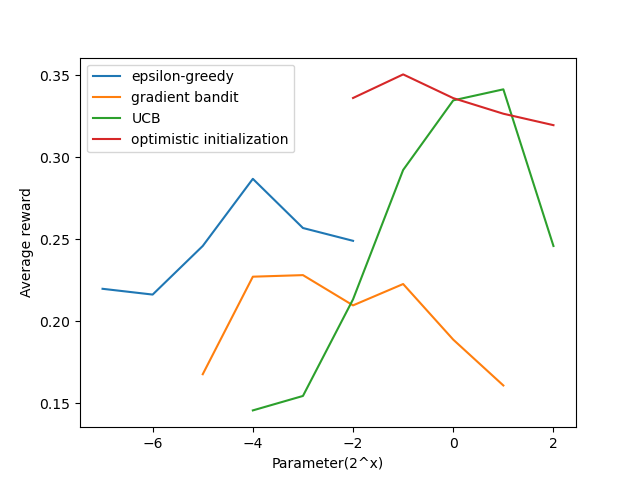
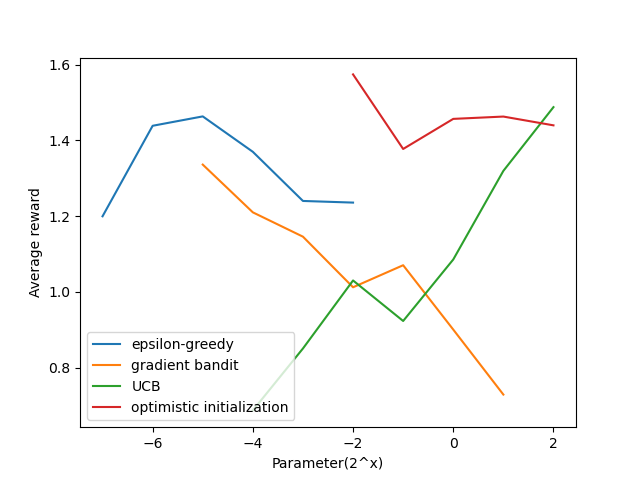
add ex2.11 with light-weighted setting (100 runs, 20000 iterations)

diff --git a/chapter2/exercise_2_5&11.py b/chapter2/exercise_2_5&11.py
@@ -167,11 +167,11 @@ def exercise_2_6(runs=2000, time=10000):
 
 
 def exercise_2_11(runs=100, time=20000):
-    new = True
+    new = False
     labels = ['epsilon-greedy', 'gradient bandit',
               'UCB', 'optimistic initialization']
     generators = [lambda epsilon: NonstationaryBandit(epsilon=epsilon, sample_averages=True),
-                  lambda alpha: NonstationaryBandit(epsilon=0.1, gradient=True, step_size=alpha,
+                  lambda alpha: NonstationaryBandit(epsilon=0, gradient=True, step_size=alpha,
                                                     gradient_baseline=True),
                   lambda coef: NonstationaryBandit(epsilon=0, UCB_param=coef, sample_averages=True),
                   lambda initial: NonstationaryBandit(epsilon=0, initial=initial, step_size=0.1)]
@@ -200,7 +200,7 @@ def exercise_2_11(runs=100, time=20000):
     #     return  x[:,w:]
     # rewards = moving_average(average_rewards, 1000)
 
-    rewards = np.mean(average_rewards[time // 2:], axis=1)
+    rewards = np.mean(average_rewards[:, time // 2:], axis=1)
     i = 0
     for label, parameter in zip(labels, parameters):
         l = len(parameter)

diff --git a/solutions.md b/solutions.md
@@ -1,7 +1,6 @@
 # Exercise Solutions
 
 ## Introduction 
-This is a solution to exercises problems in the book Reinforcement Learning: An Introduction 2nd Edition(By Sutton & Barto).  
 It serves mainly as a public note for the book and it's still being rapidly updated because I'm, at the same time, trying to get familiar with the RL research area.  
 See the source code on [Github Repo](https://github.com/brycechen1849/RL2BookSolutions), and if you have any questions, feel free to contact me at ***brycechen1849@gmail.com*** .
 
@@ -88,13 +87,13 @@ Prepare plots like Figure 2.2 for an action-value method using sample averages, 
     
     ![exercise 2.5](images/exercise_2_5.png)
     
-    I also wrote another code exercise_2_5_SIMR.py for this exercise. 
-    The SIMR stands for **Single Iteration Multi Runs**. 
-    Instead of, in the original code, going all the way through a complete run one after another, 
+    Unsatisfied with the simulation speed, I wrote a new version exercise_2_5_SIMR.py for this exercise prob. 
+    SIMR stands for **Single Iteration Multi Runs** (You know it's from SIMD in chips). 
+    Instead of going all the way through a complete run one after another, 
     this version simultaneously operates multi-runs at each iteration, as if those runs are in parallel.  
     This allowed us to utilize the power of the optimized vector computation tools in numpy, and it actually
     gets around **8x faster** than the first implementation.
-    
+     
     ![exercise 2.5 SIMR](images/exercise_2_5_SIMR.png)
 
 1. ***Exercise 2.6*** *Mysterious Spikes* The results shown in Figure 2.3 should be quite reliable because they are averages over 2000 individual, randomly chosen 10-armed bandit tasks. Why, then, are there oscillations and spikes in the early part of the curve for the optimistic method? In other words, what might make this method perform particularly better or worse, on average, on particular early steps?
@@ -162,6 +161,12 @@ Now suppose that on each step you are told whether you are facing case A or case
 11. ***Exercise 2.11 (programming)***  Make a figure analogous to Figure 2.6 for the non-stationary case outlined in Exercise 2.5. 
 Include the constant-step-size epsilon-greedy algorithm with epsilon=0.1. 
 Use runs of 200,000 steps and, as a performance measure for each algorithm and parameter setting, use the average reward over the last 100,000 steps.
+    ![figure 2.6](images/figure_2_6.png)
 
     ***Ans:***
-    
+    results are as follows.
+    ![exercise 2.11](images/exercise_2_11_Non-stationary.png)
+    There is a interesting points about this figure. The first one is why use the latest 10000 points' average?
+    I think it's because this figure has a higher dimension than other figures in this chapter. It's x axis is not time steps but parameter settings.
+    the lines do not show how the performance improves as time proceeds but what performance a parameters will eventually produce. It aims to describes a stable final state of the learner.
+        
